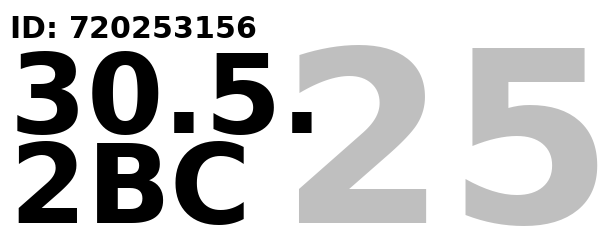
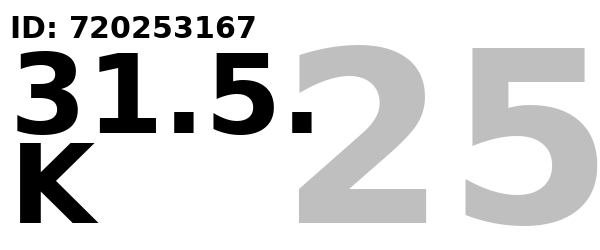
fix for special prefix count

Changed region(s): [[0.03, 0.196, 0.42, 0.924], [0.36, 0.056, 0.45, 0.168]]

diff --git a/xls_processor.py b/xls_processor.py
@@ -31,19 +31,20 @@ def extract_text_from_xls(xls_path):
         raise FileNotFoundError(f"XLS file not found: {xls_path}")
     try:
         df = pd.read_excel(xls_path, engine='openpyxl')
-        text = df.to_string(index=False)
+        text = df.to_string(index=False, na_rep='')
         logger.info(f"Full extracted text from {xls_path}:\n{text}")
         debug_path = os.path.join(os.path.dirname(xls_path), "extracted_text.txt")
         with open(debug_path, 'w', encoding='utf-8') as f:
             f.write(text)
         logger.info(f"Extracted text saved to: {debug_path}")
-        return text if text else ""
+        return text if text.strip() else ""
     except Exception as e:
         logger.error(f"Error reading XLS file {xls_path}: {e}")
         return ""
 
 def contains_blacklisted_text(text, blacklist):
     if text is None or blacklist is None:
+        logger.info("No text or blacklist provided, skipping blacklist check.")
         return False
     result = any(phrase in text for phrase in blacklist)
     logger.info(f"Blacklist check: {result} (blacklist: {blacklist})")
@@ -51,6 +52,7 @@ def contains_blacklisted_text(text, blacklist):
 
 def extract_data_from_text(text, default_year):
     if text is None:
+        logger.warning("No text provided for data extraction, returning defaults.")
         return "?", "?", "?", str(default_year)
     date_pattern = r"termín:\s*(\d{1,2}\.\s*\d{1,2}\.\s*\d{4})\s*-\s*(\d{1,2}\.\s*\d{1,2}\.\s*\d{4})"
     match = re.search(date_pattern, text)
@@ -68,6 +70,7 @@ def extract_data_from_text(text, default_year):
 def count_special_prefixes(text, special_config):
     special_counts = {}
     if text is None or special_config is None:
+        logger.warning("No text or special_config provided, returning empty special counts.")
         return special_counts
     
     for rule in special_config:
@@ -75,40 +78,51 @@ def count_special_prefixes(text, special_config):
         label = rule.get("label")
         identifier = rule.get("identifier")
         if not pattern or not label or not identifier:
+            logger.warning(f"Invalid rule: pattern={pattern}, label={label}, identifier={identifier}")
             continue
 
-        basic_pattern = pattern
-        matches = re.findall(basic_pattern, text, re.DOTALL)
-        count = len(set(matches))
+        # Krok 1: Hledáme identifikátory pro daný prefix
+        logger.info(f"Testing pattern for '{label}' with identifier: Ubytovací služby.*?(?:\b{identifier})(\d+)")
+        p_pattern = rf"Ubytovací služby.*?(?:\b{identifier})(\d+)"
+        p_matches = re.findall(p_pattern, text, re.DOTALL)
+        unique_p_values = set(p_matches)
+        identifier_count = len(unique_p_values)
 
-        if count == 1:
-            special_counts[label] = 1
-            logger.info(f"Special prefix '{label}' - found exactly once, no identifier needed (matched: {matches})")
-        elif count > 1:
-            p_pattern = rf"Ubytovací služby.*?(?:\b{identifier})(\d+)"
-            logger.info(f"Testing pattern for '{label}' with identifier: {p_pattern}")
-            p_matches = re.findall(p_pattern, text, re.DOTALL)
-            unique_p_values = set(p_matches)
-            identifier_count = len(unique_p_values)
-            if identifier_count > 0:
-                special_counts[label] = identifier_count
-                logger.info(f"Special prefix '{label}' - found: {identifier_count} (matched identifiers: {unique_p_values})")
-            else:
-                logger.info(f"Special prefix '{label}' - no identifier matches for pattern: {p_pattern}")
+        if identifier_count > 0:
+            # Pokud najdeme identifikátory, použijeme jejich počet
+            special_counts[label] = identifier_count
+            logger.info(f"Special prefix '{label}' - found: {identifier_count} (matched identifiers: {unique_p_values})")
         else:
-            logger.info(f"Special prefix '{label}' - no matches for pattern: {basic_pattern}")
+            # Krok 2: Pokud nejsou identifikátory, hledáme pattern
+            logger.info(f"Testing basic pattern for '{label}': {pattern}")
+            matches = re.findall(pattern, text, re.DOTALL)
+            unique_matches = set(matches)
+            count = len(unique_matches)
 
+            if count == 1:
+                # Pokud je pattern nalezen pouze jednou, přidáme prefix
+                special_counts[label] = 1
+                logger.info(f"Special prefix '{label}' - found exactly once, no identifier needed (matched: {unique_matches})")
+            elif count > 1:
+                logger.warning(f"Special prefix '{label}' - multiple matches ({count}) but no identifiers found: {unique_matches}")
+            else:
+                logger.info(f"Special prefix '{label}' - no matches for pattern: {pattern}")
+
+    logger.info(f"Final special counts: {special_counts}")
     return special_counts
 
 def find_prefix_and_percentage(text, config):
     prefixes_found = {}
     electric_found = False
     if text is None or config is None:
+        logger.warning("No text or config provided, returning empty prefixes.")
         return prefixes_found, electric_found
+    
     for rule in config.get("prefixes", []):
         pattern = rule.get("pattern")
         label = rule.get("label")
         if not pattern or not label:
+            logger.warning(f"Invalid rule: pattern={pattern}, label={label}")
             continue
         if re.search(pattern, text, re.DOTALL):
             if label == "E":
@@ -116,15 +130,17 @@ def find_prefix_and_percentage(text, config):
                 logger.info("Detected electricity: E")
             else:
                 prefixes_found[label] = 1
-                logger.info(f"Detected prefix '{label}' (count ignored)")
+                logger.info(f"Detected standard prefix '{label}' (pattern: {pattern})")
         else:
-            logger.info(f"Prefix '{label}' not found for pattern: {pattern}")
+            logger.info(f"Standard prefix '{label}' not found for pattern: {pattern}")
+    
+    logger.info(f"Standard prefixes found: {prefixes_found}, electric_found: {electric_found}")
     return prefixes_found, electric_found
 
 def process_prefixes_and_output(special_counts, standard_counts, electric_found):
     final_output = []
     special_output = []
-    for label, count in special_counts.items():
+    for label, count in sorted(special_counts.items()):  # Seřadíme pro konzistentní výstup
         if count > 1:
             special_output.append(f"{count}{label}")
         else:
@@ -132,20 +148,27 @@ def process_prefixes_and_output(special_counts, standard_counts, electric_found)
     special_str = "".join(special_output)
     if special_str:
         logger.info(f"Special prefixes: {special_str}")
+    else:
+        logger.info("No special prefixes found.")
 
     standard_output = []
-    for label in standard_counts.keys():
+    for label in sorted(standard_counts.keys()):  # Seřadíme pro konzistentní výstup
         standard_output.append(label)
     standard_str = "".join(standard_output)
     if standard_str:
         logger.info(f"Standard prefixes: {standard_str}")
+    else:
+        logger.info("No standard prefixes found.")
 
     electric_str = "E" if electric_found else ""
     if electric_found:
         logger.info("Detected electricity: E")
 
     final_output = special_str + standard_str + electric_str
-    logger.info(f"Final prefix output: {final_output}")
+    if not final_output:
+        logger.warning("Final output is empty!")
+    else:
+        logger.info(f"Final prefix output: {final_output}")
 
     total_prints = 0
     for part in re.findall(r'(\d*[A-Za-z])', final_output):
@@ -169,18 +192,17 @@ def create_combined_label(variable_symbol, from_date, to_date, year, output_path
         font_year = ImageFont.truetype("/usr/share/fonts/truetype/dejavu/DejaVuSans-Bold.ttf", 240)
         font_large = ImageFont.truetype("/usr/share/fonts/truetype/dejavu/DejaVuSans-Bold.ttf", 110)
         font_medium = ImageFont.truetype("/usr/share/fonts/truetype/dejavu/DejaVuSans-Bold.ttf", 30)
-
     except IOError:
         logger.warning("Failed to load DejaVuSans-Bold font, using default font.")
 
     year_short = year[-2:]
     draw.text((280, 0), f"{year_short}", fill="#bfbfbf", font=font_year)
     draw.text((10, 10), f"ID: {variable_symbol}", fill="black", font=font_medium)
-    to_date_formatted = ".".join(to_date.split(".")[:2]) + "."
+    to_date_formatted = ".".join(to_date.split(".")[:2]) + "." if to_date != "?" else "?"
     draw.text((10, 30), f"{to_date_formatted}", fill="black", font=font_large)
     if electric_found:
         draw.text((340, 30), "E", fill="black", font=font_large)
-    draw.text((10, 120), final_output, fill="black", font=font_large)
+    draw.text((10, 120), final_output or "Není prefix", fill="black", font=font_large)
     img.save(output_path)
     logger.info(f"Label saved: {output_path}")
 
@@ -241,6 +263,8 @@ def process_xls(xls_path, config, output_dir, test_mode):
 
         if total_prints > 0:
             print_label_with_image(output_file, test_mode, total_prints)
+        else:
+            logger.warning("No prints will be made (total_prints is 0).")
 
         return output_file
 
